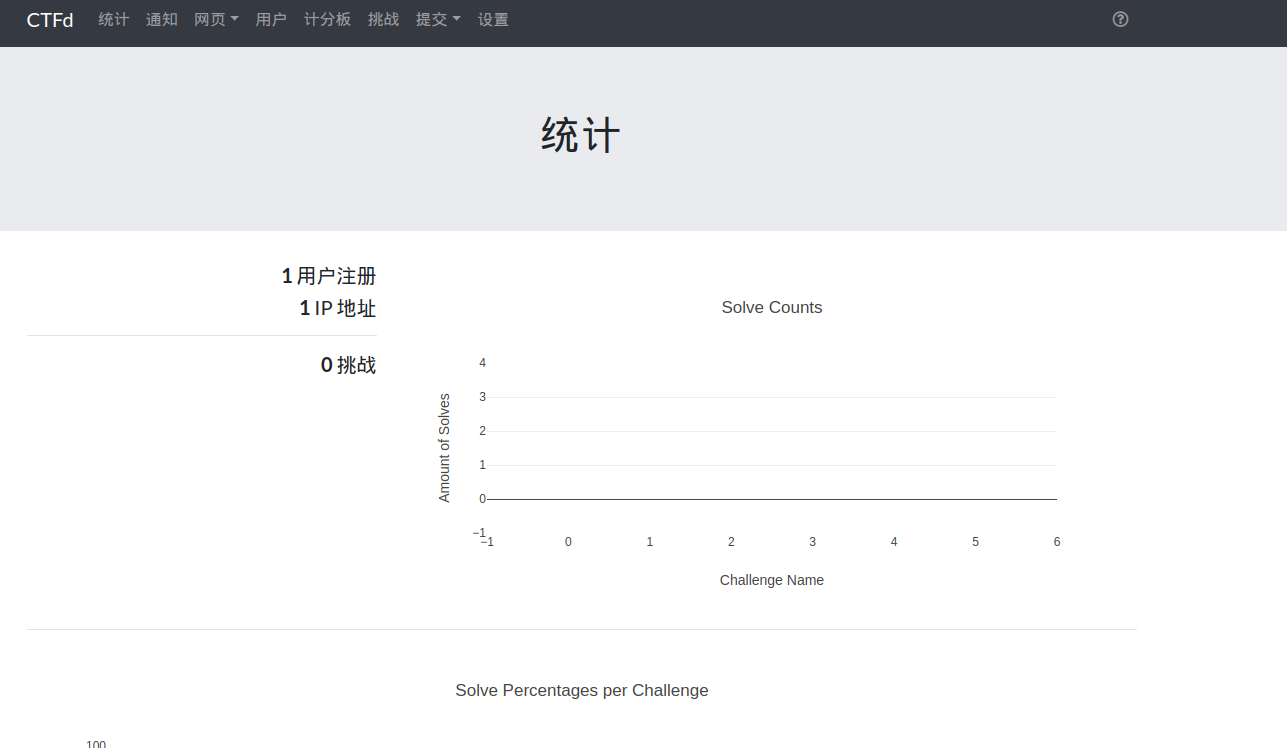
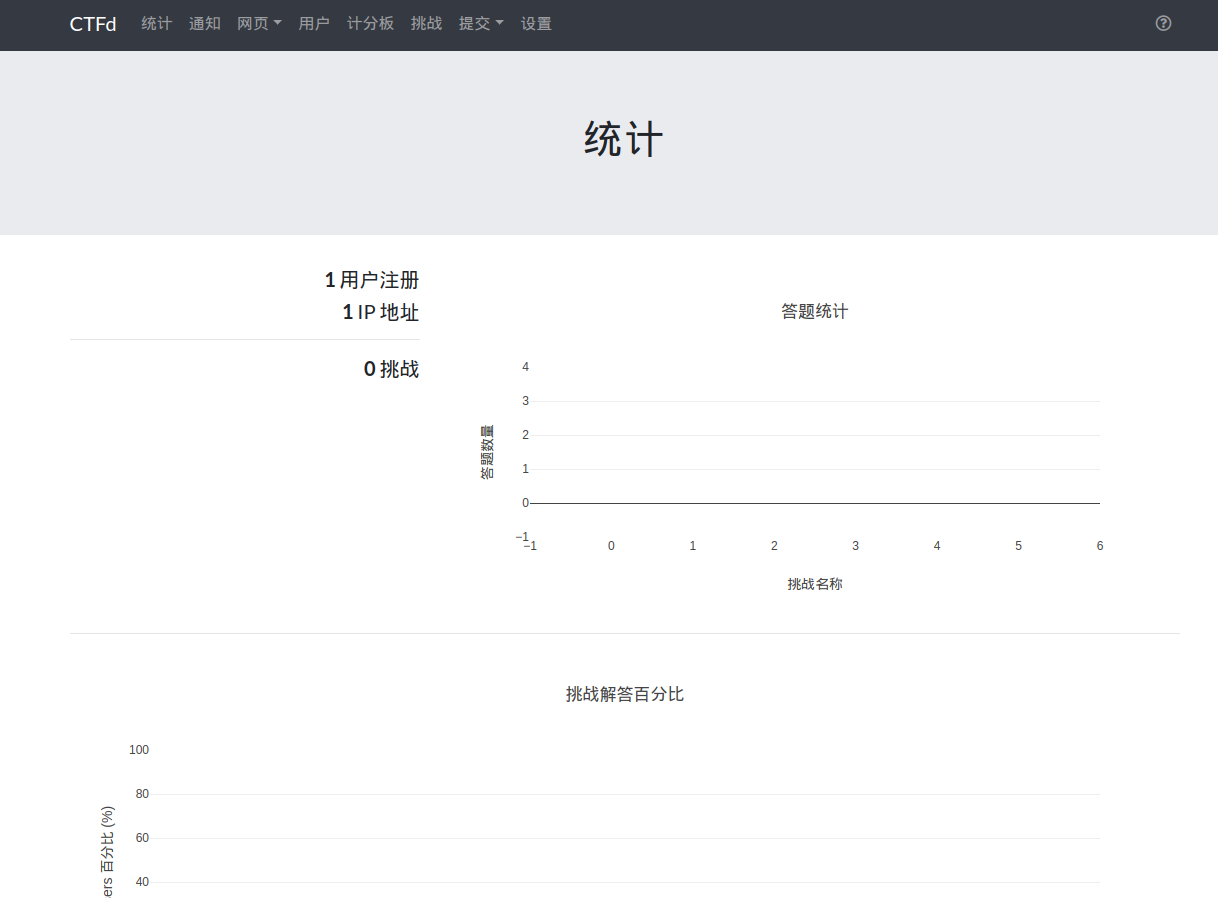
v2

diff --git a/README.md b/README.md
@@ -16,7 +16,7 @@ tar -zxvf CTFd-2.3.1.tar.gz
 - 获得主题文件,解压
 
 ```bash
-wget -O themes_cn.tar.gz https://eonun.coding.net/api/user/eonun/project/CTFd_themes_cn/git/releases/attachments/download/30767
+wget -O themes_cn.tar.gz https://github.com/eonun/CTFd_themes_cn/releases/download/v2.3.1_cn_v2/themes_cn_v2.tar.gz
 tar -zxvf themes_cn.tar.gz
 ```
 
@@ -52,8 +52,7 @@ docker run -p 8000:8000 -itd CTFd
 
 ![04](./image/04.png)
 
-
-- 未汉化点
+## 未汉化点
 
 ![05](./image/05.png)
 
